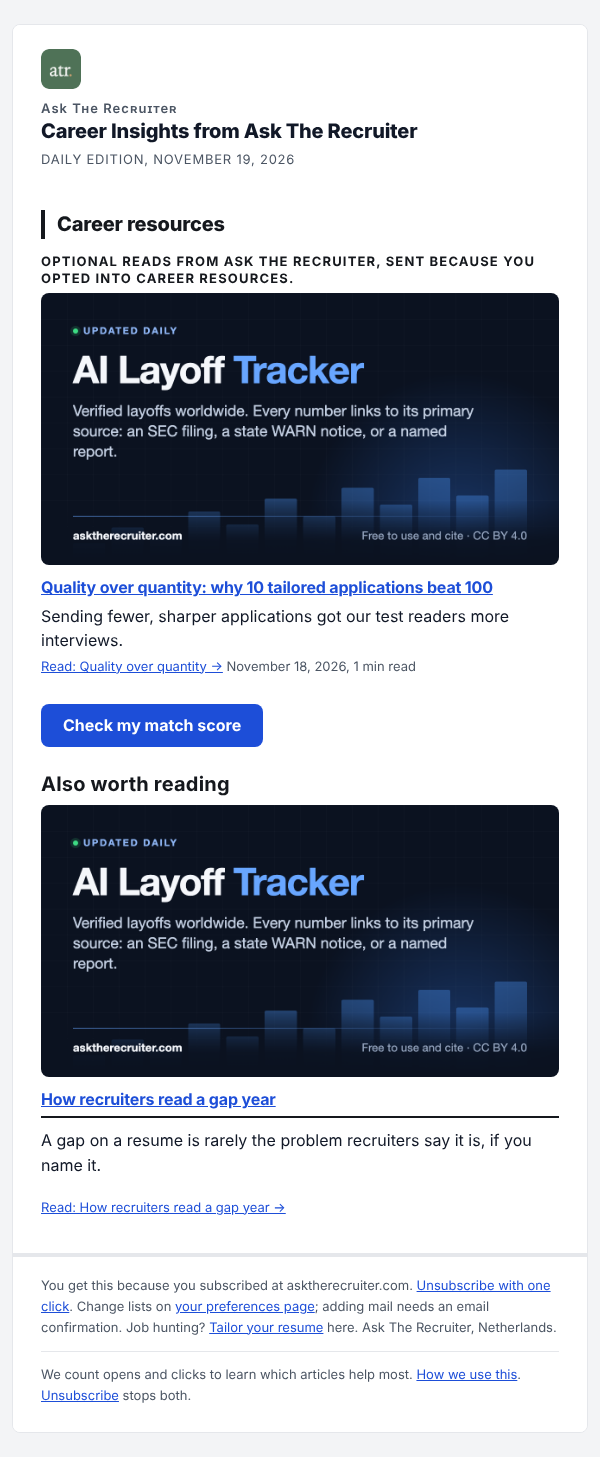
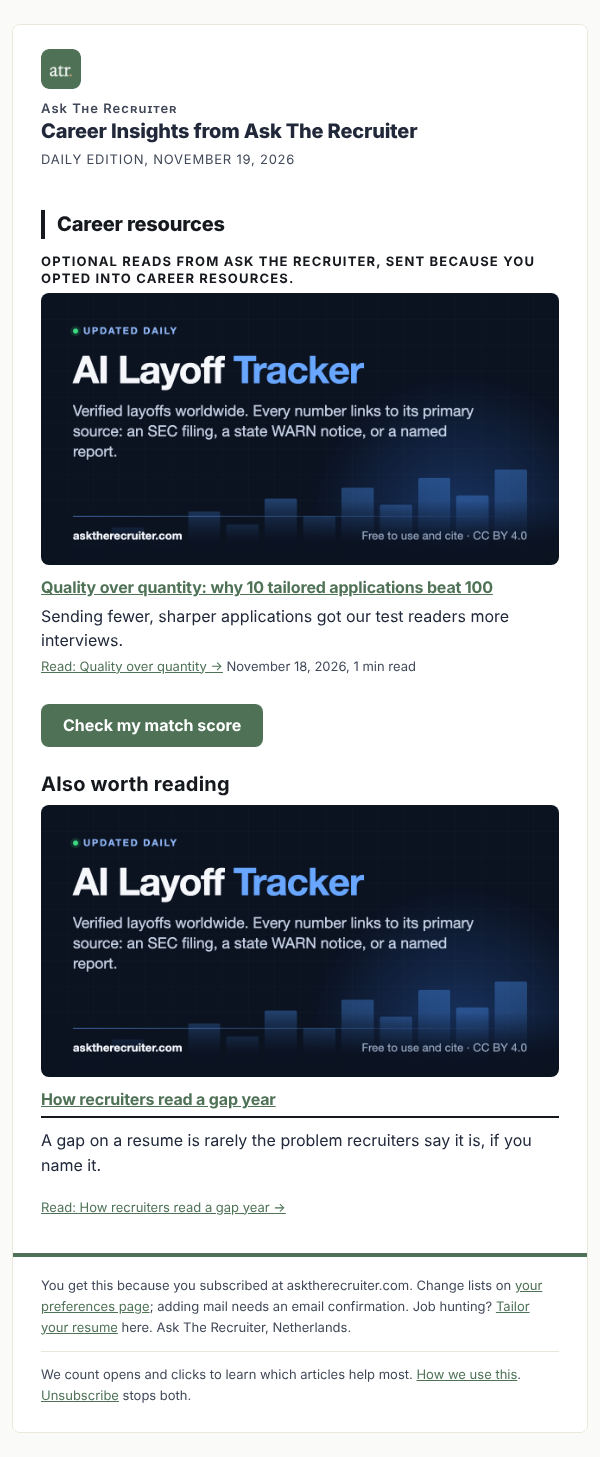
fix: button keeps AA in dark mode, brand divider, one unsubscribe link, button in every email (todo#2763)
Codex P2: the dark link colour painted the button label (2.70:1). The button
now has its own et-btn class and dark pair (#1C1C1C on #9CC0A1).

Claude-Session: https://claude.ai/code/session_01Ned9G8vSAD1sbPeGwgmwfV

diff --git a/railway/digest_layout.py b/railway/digest_layout.py
@@ -1175,7 +1175,7 @@ def preheader_text(parts) -> str:
 def _cell(inner: str, *, padding: str, top_rule: bool = False) -> str:
     # A THICK DIVIDER between sections (owner, 2026-11-19, todo#2763): the
     # tracker editions read as one wall of paragraphs with a hairline.
-    border = (f"border-top:{email_theme.DIVIDER_PX}px solid {RULE};"
+    border = (f"border-top:{email_theme.DIVIDER_PX}px solid {email_theme.DIVIDER};"
               if top_rule else "")
     klass = "et-card et-rule" if top_rule else "et-card"
     return (f'<tr><td class="{klass}" style="padding:{padding};'
@@ -1406,8 +1406,8 @@ FOOTER_BLOCKS = (
     # CONDENSED AGAIN 2026-11-04 (owner): fewer words, one paragraph; the
     # unsubscribe link, the preferences link and the tracking disclosure stay.
     ("", ("You get this because you subscribed at asktherecruiter.com.",), ""),
-    ("unsub", ("Unsubscribe with one click.",),
-     "Unsubscribe with one click"),
+    # ONE unsubscribe link (owner, 2026-11-19, todo#2763): it lives in the
+    # tracking line below ("Unsubscribe stops both."), which is one click.
     # The reader's OWN signed preferences page (plugin
     # includes/subscriber-prefs.php), carried per recipient. Less mail applies
     # at once; anything that adds mail is confirmed by email.
@@ -1626,7 +1626,8 @@ def render_html(parts, *, subject: str, preheader: str, kicker: str,
         section_html = arrange_section(section_html, product_name(parts))
         section_html = digest_design.add_charts(section_html, accent)
         styled = restyle(section_html, accent)
-        if cta and section == "articles":
+        # One button per email, after the lead section (owner, 2026-11-19).
+        if cta and index == 0:
             styled = add_cta(styled, cta)
         cell = _cell(styled, padding=padding,
                      top_rule=bool(index))
@@ -1746,7 +1747,7 @@ def render_text(parts, *, kicker: str, unsub_url: str, manage_url: str,
         if index:
             body.append(thin)
         body.append(_reflow(plain_dashes(part_text(part))))
-        if cta and str(part[0]) == "articles":
+        if cta and index == 0:
             body.append(f"{CTA_LABEL}:\n{cta}")
     # THE SAME SENTENCES AS THE HTML PART, FROM THE SAME PLACE. For a text
     # only client and for every screen reader fallback this IS the message, so
@@ -1773,4 +1774,6 @@ def render_text(parts, *, kicker: str, unsub_url: str, manage_url: str,
         footer.append("")
     footer.append(_reflow(" ".join(TRACKING_SENTENCES)))
     footer.append(f"How we use this: {PRIVACY_TRACKING_URL}")
+    footer.append("Unsubscribe:")
+    footer.append(unsub_url)
     return "\n".join(head + [rule, ""] + body + [""] + footer) + "\n"

diff --git a/railway/email_theme.py b/railway/email_theme.py
@@ -58,6 +58,7 @@ LOGO_URL = "https://asktherecruiter.com/apple-touch-icon.png"
 LOGO_PX = 40
 # The thick rule between sections, so a long edition reads as blocks.
 DIVIDER_PX = 4
+DIVIDER = ACCENT  # brand green, clearly visible
 BUTTON_TEXT = "#ffffff"
 
 # Class names the dark block targets. Inline styles carry the light values;
@@ -70,6 +71,8 @@ CLASSES = {
     "muted": "et-muted",
     "link": "et-link",
     "rule": "et-rule",
+    "button": "et-btn",
+    "button_cell": "et-btn-td",
 }
 
 LIGHT_PAIRS = ((INK, BACKGROUND), (MUTED, BACKGROUND), (ACCENT, BACKGROUND),
@@ -108,6 +111,11 @@ def dark_style_block() -> str:
         f".{c['muted']}{{color:{DARK_MUTED}!important;}}"
         f".{c['card']} a,.{c['link']}{{color:{DARK_ACCENT}!important;}}"
         f".{c['rule']}{{border-color:#1f2a44!important;}}"
+        # The button keeps its own AA pair (Codex P2, todo#2763): after the
+        # generic link rule, so the dark link colour never paints its label.
+        f".{c['card']} a.et-btn{{color:{DARK_BG}!important;"
+        f"background-color:{DARK_ACCENT}!important;}}"
+        f".et-btn-td{{background-color:{DARK_ACCENT}!important;}}"
         # Inline light tints that would otherwise stay light under dark ink.
         + "".join(f'.{c["card"]} [style*="background-color:{light}"],'
                   f'.{c["card"]} [bgcolor="{light}"]'
@@ -150,9 +158,9 @@ def button(label: str, url: str) -> str:
     """The one call-to-action button: a bulletproof table cell, inline styles."""
     return (f'<table role="presentation" cellpadding="0" cellspacing="0" border="0" '
             f'style="margin:8px 0 18px;border-collapse:separate;"><tr>'
-            f'<td bgcolor="{ACCENT}" style="background-color:{ACCENT};'
+            f'<td class="et-btn-td" bgcolor="{ACCENT}" style="background-color:{ACCENT};'
             f'border-radius:{RADIUS_PX}px;">'
-            f'<a data-cta href="{escape(url)}" style="display:inline-block;'
+            f'<a class="et-btn" data-cta href="{escape(url)}" style="display:inline-block;'
             f'padding:12px 22px;font-family:{FONT};font-size:16px;font-weight:700;'
             f'line-height:1.2;color:{BUTTON_TEXT};text-decoration:none;'
             f'border-radius:{RADIUS_PX}px;">{escape(label)}</a></td></tr></table>')

diff --git a/railway/tests/test_email_shell_2763.py b/railway/tests/test_email_shell_2763.py
@@ -167,3 +167,35 @@ class Newsletter(unittest.TestCase):
 
 if __name__ == "__main__":
     unittest.main()
+
+
+class CoordinatorRound2(unittest.TestCase):
+    """Brand-coloured dividers, one unsubscribe link, a button in every email."""
+
+    def test_every_email_has_the_button_and_one_unsubscribe_link(self):
+        for sections in (("layoff",), ("talent",), ("articles",), ("layoff", "talent")):
+            m = message(sections, freq="daily")
+            self.assertEqual(m.html.count(">Check my match score</a>"), 1, sections)
+            self.assertEqual(len(re.findall(r">Unsubscribe[^<]*</a>", m.html)), 1, sections)
+
+    def test_divider_is_the_brand_colour(self):
+        html = message(("layoff", "talent"), freq="daily").html
+        self.assertIn(f"border-top:4px solid {email_theme.ACCENT}", html)
+
+
+class ButtonContrast(unittest.TestCase):
+    """Codex P2: the dark link colour overrode the button label (2.70:1)."""
+
+    def test_label_clears_aa_in_light_and_dark(self):
+        self.assertGreaterEqual(email_theme.contrast(email_theme.BUTTON_TEXT, email_theme.ACCENT), 4.5)
+        self.assertGreaterEqual(email_theme.contrast(email_theme.DARK_BG, email_theme.DARK_ACCENT), 4.5)
+
+    def test_dark_block_gives_the_button_its_own_pair(self):
+        block = email_theme.dark_style_block()
+        self.assertIn(f".et-card a.et-btn{{color:{email_theme.DARK_BG}!important;", block)
+        self.assertIn(f".et-btn-td{{background-color:{email_theme.DARK_ACCENT}!important;", block)
+        # The button rule comes after the generic link rule, so it wins.
+        self.assertGreater(block.index("a.et-btn"), block.index(".et-card a,"))
+        btn = email_theme.button("Go", "https://asktherecruiter.com/")
+        self.assertIn('class="et-btn"', btn)
+        self.assertIn('class="et-btn-td"', btn)

diff --git a/railway/tests/test_digest_email_layout.py b/railway/tests/test_digest_email_layout.py
@@ -230,7 +230,8 @@ class ForwardingSurvival(unittest.TestCase):
         for tag in re.findall(r"<[a-z][^>]*\sclass=\"[^\"]*\"[^>]*>", html):
             names = re.search(r'class="([^"]*)"', tag).group(1).split()
             self.assertTrue(set(names) <= allowed, tag)
-            if not tag.startswith(("<body", "<table", "<td", "<p")):
+            # The CTA link carries et-btn for its dark-mode pair (todo#2763).
+            if not tag.startswith(("<body", "<table", "<td", "<p", '<a class="et-btn"')):
                 self.fail(f"unexpected classed element {tag}")
             self.assertIn("style=", tag, f"{tag} relies on its class alone")
 

diff --git a/railway/tests/test_digest_sender.py b/railway/tests/test_digest_sender.py
@@ -1237,8 +1237,9 @@ class TheTwoFootersAreOneDefinition(unittest.TestCase):
         # And the link is on the same words, pointing at the same place.
         self.assertIn(f'<a href="{self.MANAGE}">your preferences page</a>',
                       run.stdout)
-        self.assertIn(f'<a href="{self.UNSUB}">Unsubscribe with one click</a>',
-                      run.stdout)
+        # The one unsubscribe link now sits in the tracking note (todo#2763),
+        # which the eval'd fallback renders only with the plugin's constants.
+        self.assertNotIn("Unsubscribe with one click", run.stdout)
 
 
 class HouseStyle(unittest.TestCase):

diff --git a/wordpress-plugin/ai-layoff-tracker/includes/subscribe.php b/wordpress-plugin/ai-layoff-tracker/includes/subscribe.php
@@ -8052,13 +8052,6 @@ function alt_digest_footer_blocks($unsub_url, $manage_url = '') {
                 'You get this because you subscribed at asktherecruiter.com.',
             ),
         ),
-        array(
-            'url' => $unsub_url,
-            'anchor' => 'Unsubscribe with one click',
-            'sentences' => array(
-                'Unsubscribe with one click.',
-            ),
-        ),
     );
     // OMITTED RATHER THAN RENDERED WITHOUT A LINK. A promise with nowhere to
     // go is worse than silence, and the relay drops it the same way.

diff --git a/wordpress-plugin/ai-layoff-tracker/includes/subscriber-prefs.php b/wordpress-plugin/ai-layoff-tracker/includes/subscriber-prefs.php
@@ -519,6 +519,9 @@ function alt_digest_footer_text($unsub_url, $manage_url = '') {
         if ($block['url']) $t = rtrim($t, '.') . ":\n" . $block['url'];
         $out[] = $t;
     }
+    // The tracking note carries the one unsubscribe link (todo#2763).
+    $out[] = (defined('ALT_DIGEST_TRACKING_NOTE') ? ALT_DIGEST_TRACKING_NOTE . "\n" : '')
+           . "Unsubscribe:\n" . $unsub_url;
     return implode("\n\n", $out);
 }
 
